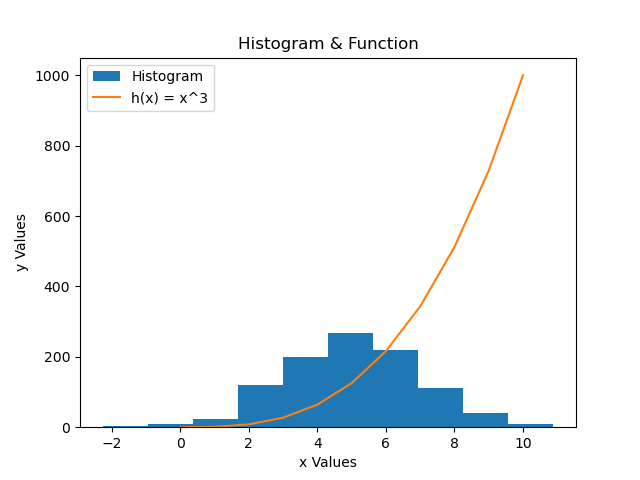
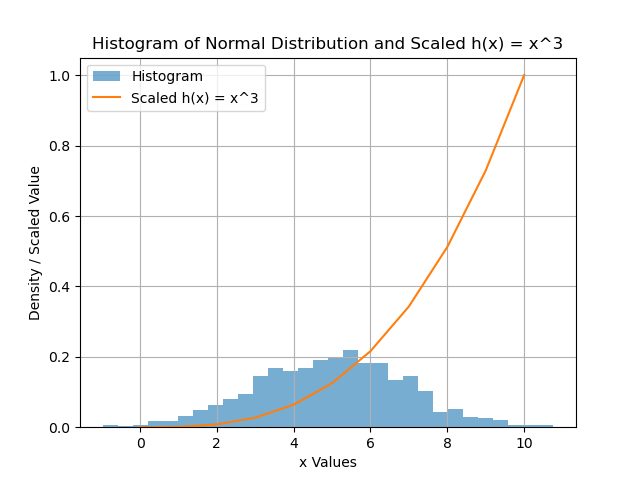
Changed some code to produce better graph. Also added references

diff --git a/plottask.py b/plottask.py
@@ -2,27 +2,33 @@
 # Histogram of a normal distribution of a 1000 values
 # Author: John Crumlish
 
+# References:
+# https://www.w3schools.com/python/matplotlib_histograms.asp
+# https://numpy.org/doc/stable/reference/generated/numpy.arange.html
+
 import numpy as np
 import matplotlib.pyplot as plt
 
-# Generates Data
-# Note: The task specifies values between 0–10, but a normal distribution
-# (mean=5, std=2) can produce values outside this range.
+# Generate Data
 data = np.random.normal(5, 2, 1000)
 
 # x & y Values
 x = np.arange(0, 11)
 y = x**3
 
-# Plotting
-plt.hist (data, label="Histogram")
-plt.plot(x, y, label="h(x) = x^3")
+# NORMALISE the function so it fits the histogram scale
+y = y / max(y)
 
-# Labels
-plt.title("Histogram & Function")
+# Plotting
+plt.hist(data, bins=30, density=True, alpha=0.6, label="Histogram")
+plt.plot(x, y, label="Scaled h(x) = x^3")
+
+# Labels & Styling
+plt.title("Histogram of Normal Distribution and Scaled h(x) = x^3")
 plt.xlabel("x Values")
-plt.ylabel("y Values")
+plt.ylabel("Density / Scaled Value")
 plt.legend()
+plt.grid()
 
 # Save Image
 plt.savefig("plottask.png")
